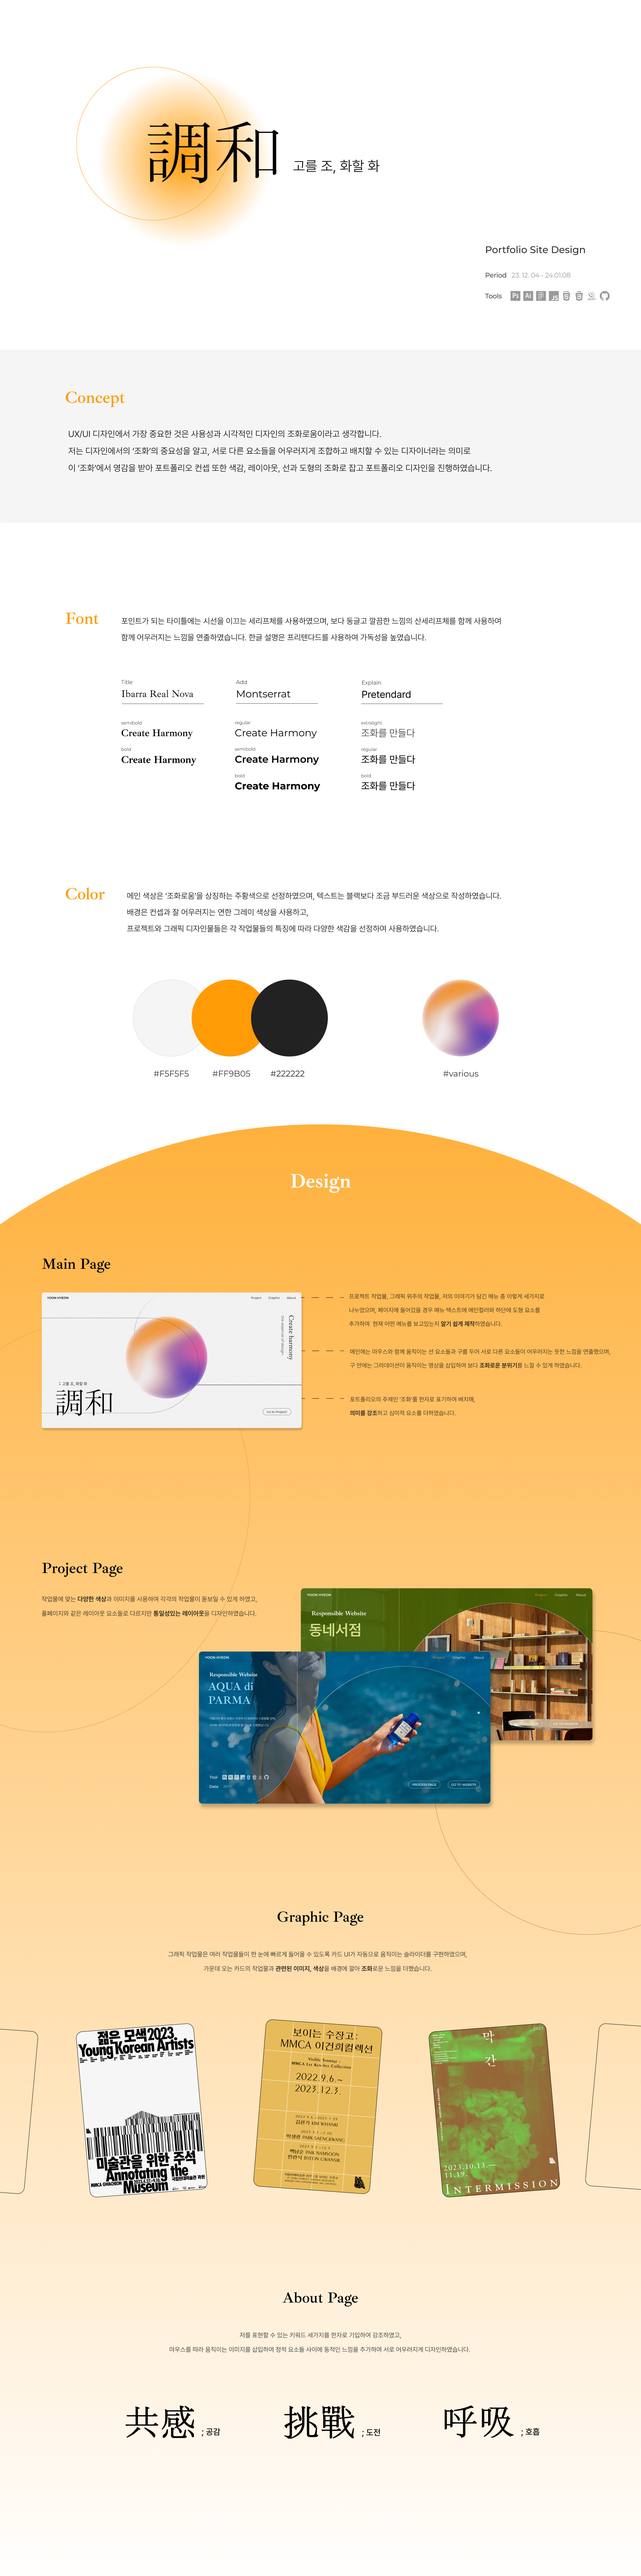
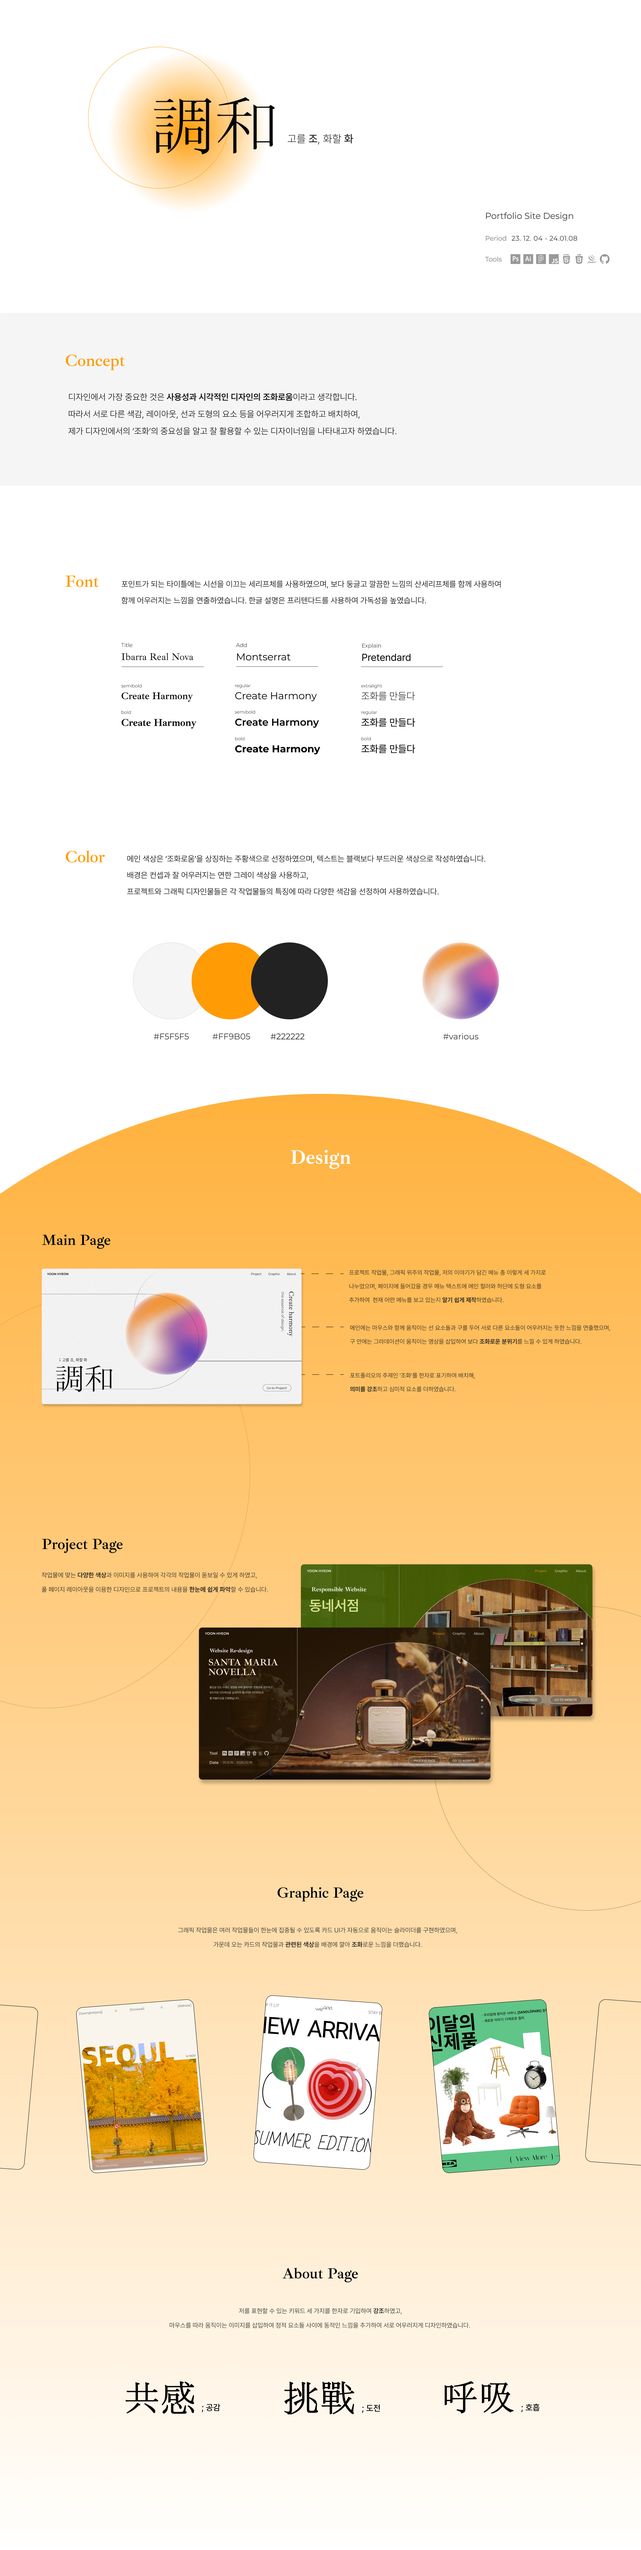
이메일 수정

diff --git a/about.html b/about.html
@@ -1,4 +1,4 @@
-<!DOCTYPE html>
+<!doctype html>
 <html lang="ko">
   <head>
     <meta charset="UTF-8" />
@@ -218,7 +218,7 @@
               </dl>
               <dl class="info e-mail">
                 <dt>E-mail</dt>
-                <dd>birds0501@naver.com</dd>
+                <dd>hooyu0101@gmail.com</dd>
               </dl>
               <dl class="info phone">
                 <dt>Phone</dt>
